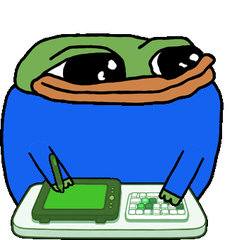
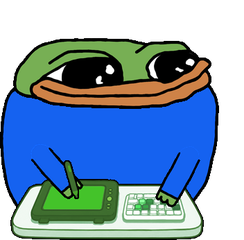
update v1786964711

Changed region(s): [[0.0, 0.1167, 0.918, 0.9917]]

diff --git a/mascot.py b/mascot.py
@@ -4253,6 +4253,7 @@ class Mascot:
         self._self_cup_at = 0.0      # 본인 컵케이크를 먹은 시각 (10분에 1번)
         self._soft_cache = {}        # 매끈한 원·그림자 그림 (상한 있음)
         self._room_dxc = {}          # 방 그림의 책상 중심 치우침 (slot,tag)→px
+        self._room_meta_h = {}       # 방 그림의 머리선 캐시 (slot → 0~1)
         self._mq_img = None          # 지금 프레임의 마퀴 그림
         self._room_song_slots = set()  # 노래가 걸린 카드 (음표 연출용)
         self._bubble_born = 0.0      # 지금 말풍선이 뜬 시각 (톡 등장용)
@@ -14537,6 +14538,21 @@ class Mascot:
         self._room_meta[slot] = v
         return v
 
+    def _room_headline(self, slot):
+        """그림에서 머리가 끝나는 높이 (0~1). 모르면 None (옛 배포본)."""
+        if slot in self._room_meta_h:
+            return self._room_meta_h[slot]
+        v = None
+        p = self._room_art_file(slot, "seat_meta.json")
+        if p:
+            try:
+                with open(p, encoding="utf-8") as fp:
+                    v = float(json.load(fp).get("head"))
+            except Exception:
+                v = None
+        self._room_meta_h[slot] = v
+        return v
+
     def _room_img(self, slot, tag):
         """방에 그릴 그림 — (몸, 책상) 두 조각. 아직 없으면 None.
 
@@ -14584,21 +14600,26 @@ class Mascot:
                     round(im.width / 2 - (bb2[0] + bb2[2]) / 2) if bb2 else 0)
             except Exception:
                 self._room_dxc[(slot, tag)] = 0
-            if line and 0.2 < line < 0.95:
-                # 몸은 통짜로 두고, 책상 조각을 그 위에 고정으로 덮는다.
-                # 몸을 잘라 올리면 잘린 자리가 그대로 드러난다 (실제로 겪음).
+            hline = self._room_headline(slot)
+            if hline and 0.05 < hline < 0.9:
+                # 머리/몸 분리 — 전신은 고정하고 머리 조각만 숨쉬게 한다.
+                # 머리 조각은 목 아래로 살짝 겹쳐 잘라, 위로 떠도 틈이 없다.
+                lap = int(4 * self._room_k())
+                hcut = min(h, int(h * hline) + lap)
+                pair = (ImageTk.PhotoImage(im.crop((0, 0, im.width, hcut))),
+                        ImageTk.PhotoImage(im), h, "head")
+            elif line and 0.2 < line < 0.95:
+                # 옛 배포본(머리선 없음) — 몸이 숨쉬고 책상 조각이 위에 덮는다.
                 cut = int(h * line)
-                # 몸이 숨쉬며 오르내릴 때(±1.6k) 흰 테두리가 이음새로
-                # 드러나지 않게 책상 조각을 살짝만 위로 겹친다. 크게 겹치면
-                # 그 띠 안의 몸 그림이 붙박이가 돼 '잘린 선'으로 보인다
-                # (연어 제보 — 8k였을 때).
+                # 겹침은 숨쉬기 진폭만 가릴 만큼만 (크면 잘린 선으로 보인다 —
+                # 연어 제보, 8k였을 때)
                 lap = int(3 * self._room_k())
                 cut2 = max(0, cut - lap)
                 pair = (ImageTk.PhotoImage(im),
                         ImageTk.PhotoImage(im.crop((0, cut2, im.width, h))),
-                        h - cut2)
+                        h - cut2, "desk")
             else:
-                pair = (ImageTk.PhotoImage(im), None, 0)
+                pair = (ImageTk.PhotoImage(im), None, 0, "desk")
         except Exception:
             self._room_art_bad.add(slot)
             return None
@@ -15963,8 +15984,8 @@ class Mascot:
                  width=3 if picked else 2)
         got = self._room_img(slot, self._room_pose(p))
         if got is not None:
-            body, desk, cut = got
-            # 숨쉬듯 아주 살짝. 움직이는 것은 몸뿐이고 책상은 고정이다.
+            body, over, cut, mode = got
+            # 숨쉬듯 아주 살짝 — 머리 조각(있으면)만 들썩이고 몸·책상은 고정
             bob = math.sin(time.time() * 1.7 + hash(slot) % 7) * (1.6 * k)
             if sleeping:
                 bob *= 0.6
@@ -15972,21 +15993,30 @@ class Mascot:
             pose = self._room_pose(p)
             cx = (kx0 + kx1) / 2 + self._room_dxc.get(
                 (slot, pose), self._room_dxc.get((slot, "seat"), 0))
-            item = cv.create_image(cx, base + bob, image=body, anchor="s",
-                                   tags="dyn")
-            ditem = None
-            if desk is not None:
-                # 책상을 나중에 그려 위에 덮는다 — 뒤에서 몸이 움직여도
-                # 책상은 붙박이고 이음매도 안 보인다.
-                ditem = cv.create_image(cx, base, image=desk, anchor="s",
+            if mode == "head" and over is not None:
+                # body = 머리 조각(움직임), over = 전신(고정)
+                ditem = cv.create_image(cx, base, image=over, anchor="s",
                                         tags="dyn")
+                reg = base - over.height() + body.height()
+                item = cv.create_image(cx, reg + bob, image=body, anchor="s",
+                                       tags="dyn")
+            else:
+                reg = base
+                item = cv.create_image(cx, base + bob, image=body, anchor="s",
+                                       tags="dyn")
+                ditem = None
+                if over is not None:
+                    # 책상을 나중에 그려 위에 덮는다 — 뒤에서 몸이 움직여도
+                    # 책상은 붙박이고 이음매도 안 보인다.
+                    ditem = cv.create_image(cx, base, image=over, anchor="s",
+                                            tags="dyn")
             if float(p.get("p") or 0) >= 1.0:
                 # 목표를 다 채운 사람 — 남들 화면에서도 축하 모습으로
                 self._safe("room_party", self._room_party_draw,
                            cv, slot, pose, cx, base + bob, k, col)
             if not off:
                 # 안 켠 사람은 숨쉬지 않는다 — 켜 있는 사람과 구분이 된다
-                self._room_body.append((item, ditem, slot, base, sleeping,
+                self._room_body.append((item, ditem, slot, reg, sleeping,
                                         pose))
         else:
             cv.create_oval((kx0 + kx1) / 2 - 26 * k, floor - 56 * k,
